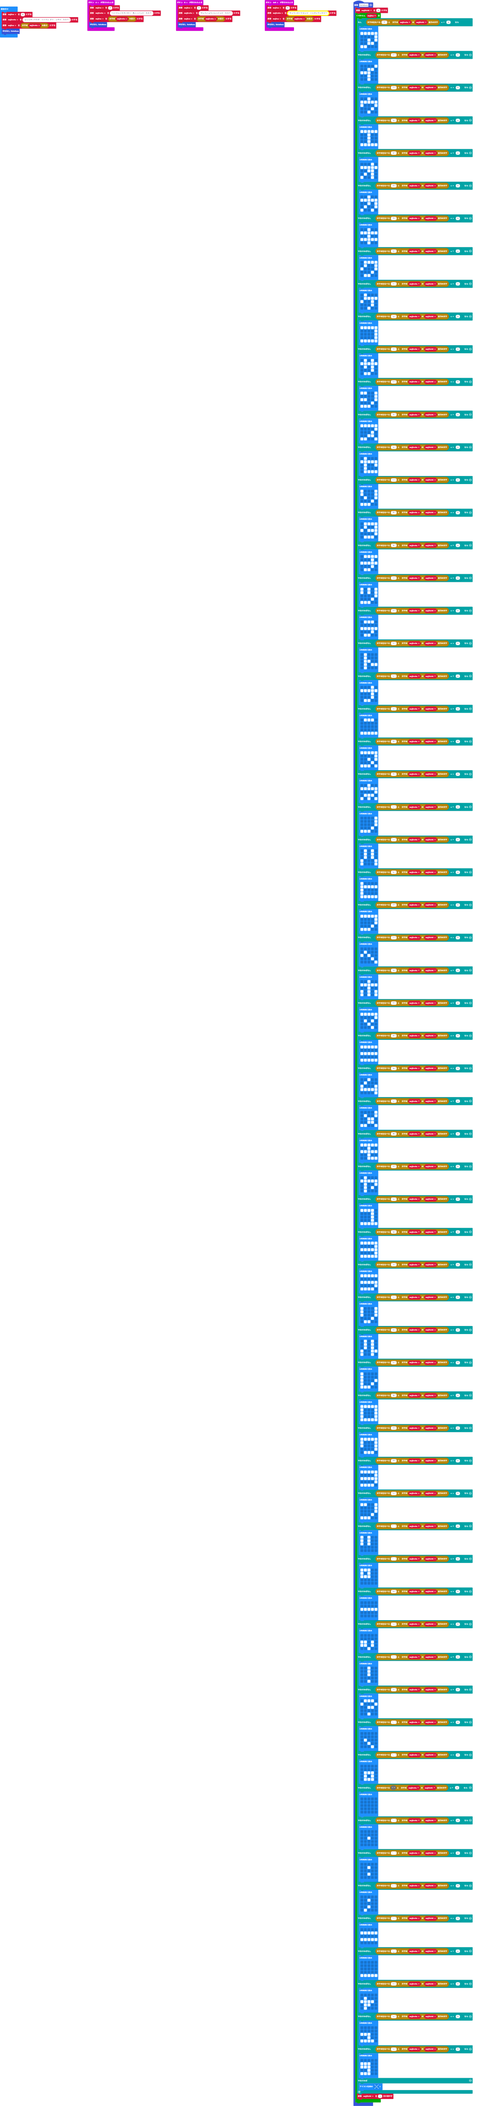
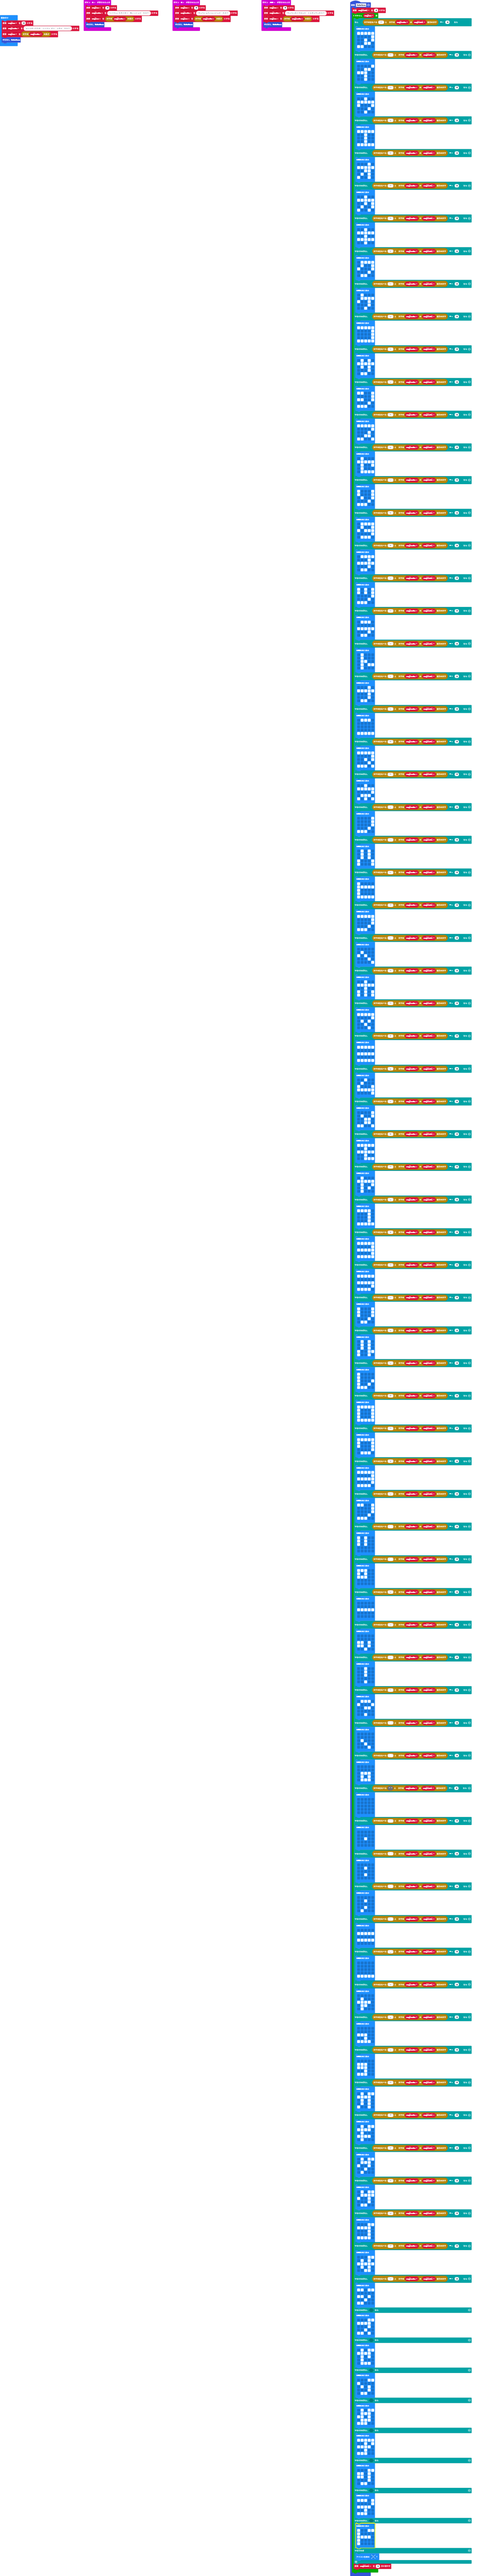
更新 main.blocks, main.ts

diff --git a/main.ts b/main.ts
@@ -523,6 +523,126 @@ function KataKana () {
                 . . # . .
                 # # # . .
                 `)
+        } else if ("ガ".compare(mojiretu.charAt(mojiichi)) == 0) {
+            basic.showLeds(`
+                . # . # #
+                # # # # .
+                . # . # .
+                . # . # .
+                # . . # .
+                `)
+        } else if ("ギ".compare(mojiretu.charAt(mojiichi)) == 0) {
+            basic.showLeds(`
+                . # . # #
+                # # # # .
+                . # . . .
+                # # # # .
+                . # . . .
+                `)
+        } else if ("グ".compare(mojiretu.charAt(mojiichi)) == 0) {
+            basic.showLeds(`
+                . # . # #
+                . # # # .
+                # . . # .
+                . . # . .
+                . # . . .
+                `)
+        } else if ("グ".compare(mojiretu.charAt(mojiichi)) == 0) {
+            basic.showLeds(`
+                . # . # #
+                . # # # #
+                # . . # .
+                . . . # .
+                . # # . .
+                `)
+        } else if ("ゴ".compare(mojiretu.charAt(mojiichi)) == 0) {
+            basic.showLeds(`
+                . . . # #
+                # # # # .
+                . . . # .
+                . . . # .
+                # # # # .
+                `)
+        } else if ("ザ".compare(mojiretu.charAt(mojiichi)) == 0) {
+            basic.showLeds(`
+                . . . # #
+                . # . # .
+                # # # # #
+                . # . # .
+                . . # # .
+                `)
+        } else if ("ジ".compare(mojiretu.charAt(mojiichi)) == 0) {
+            basic.showLeds(`
+                # # . # #
+                . . . . .
+                # # . # .
+                . . # . .
+                # # . . .
+                `)
+        } else if (false) {
+            basic.showLeds(`
+                . . . # #
+                # # # # .
+                . . . # .
+                . . # . .
+                # # . # .
+                `)
+        } else if (false) {
+            basic.showLeds(`
+                . # . # #
+                # # # # .
+                . # . # .
+                . # . . .
+                . # # # .
+                `)
+        } else if (false) {
+            basic.showLeds(`
+                . . . # #
+                # . . . .
+                . # . # .
+                . . . # .
+                . # # . .
+                `)
+        } else if (false) {
+            basic.showLeds(`
+                . # . # #
+                . # # # .
+                # # . # .
+                . # # # .
+                # # # . .
+                `)
+        } else if (false) {
+            basic.showLeds(`
+                # # # # #
+                . . # . #
+                # # # # .
+                . . # . .
+                # # # . .
+                `)
+        } else if (false) {
+            basic.showLeds(`
+                . . . # #
+                # # . # .
+                # # . # .
+                . . . # .
+                . # # . .
+                `)
+        } else if (false) {
+            basic.showLeds(`
+                # # # . #
+                . . . . #
+                # # # # .
+                . . # . .
+                # # # . .
+                `)
+        } else if (false) {
+            basic.showLeds(`
+                # . . # #
+                # . . . .
+                # # # # .
+                # . . . .
+                # . . . .
+                `)
         } else {
             basic.showIcon(IconNames.No)
         }
